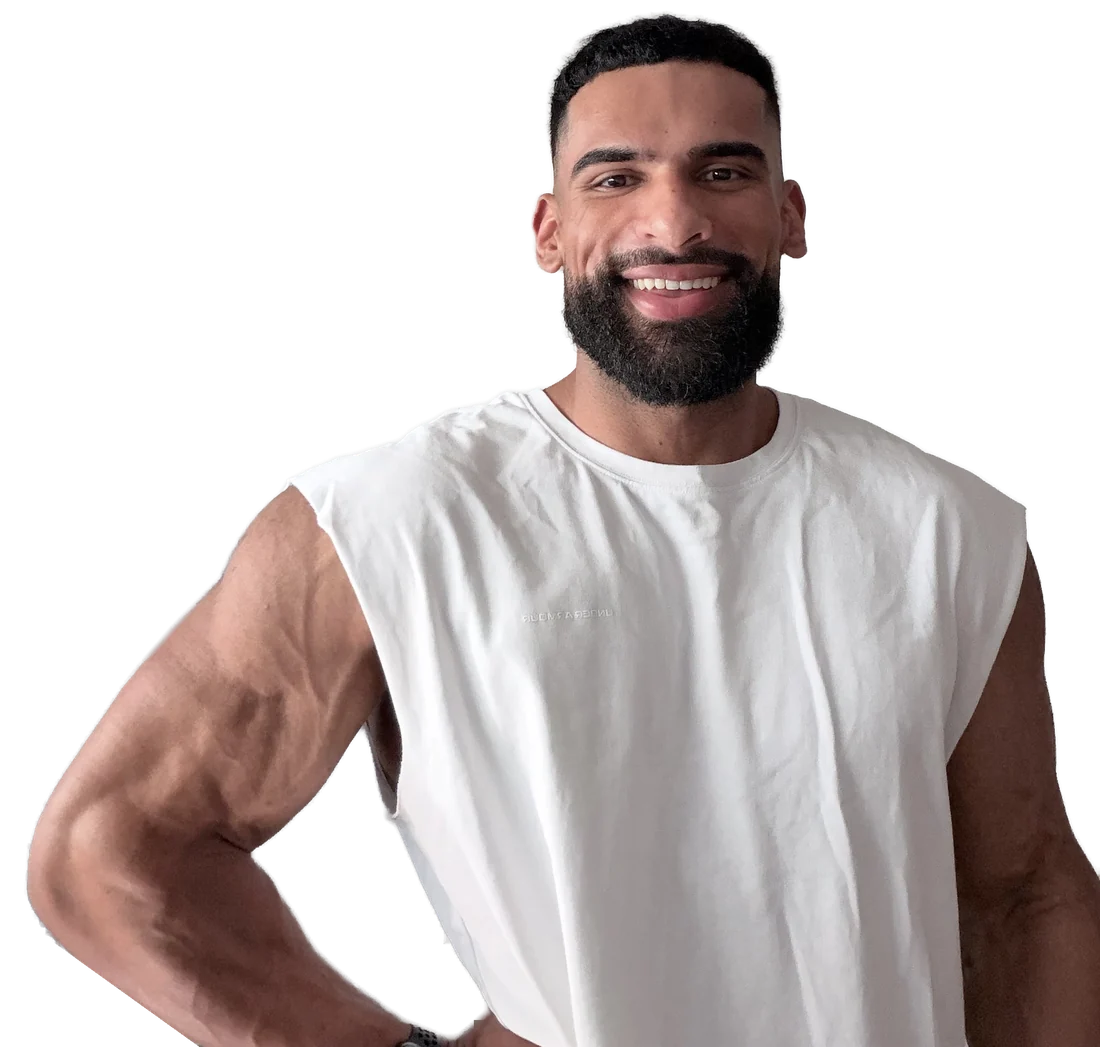
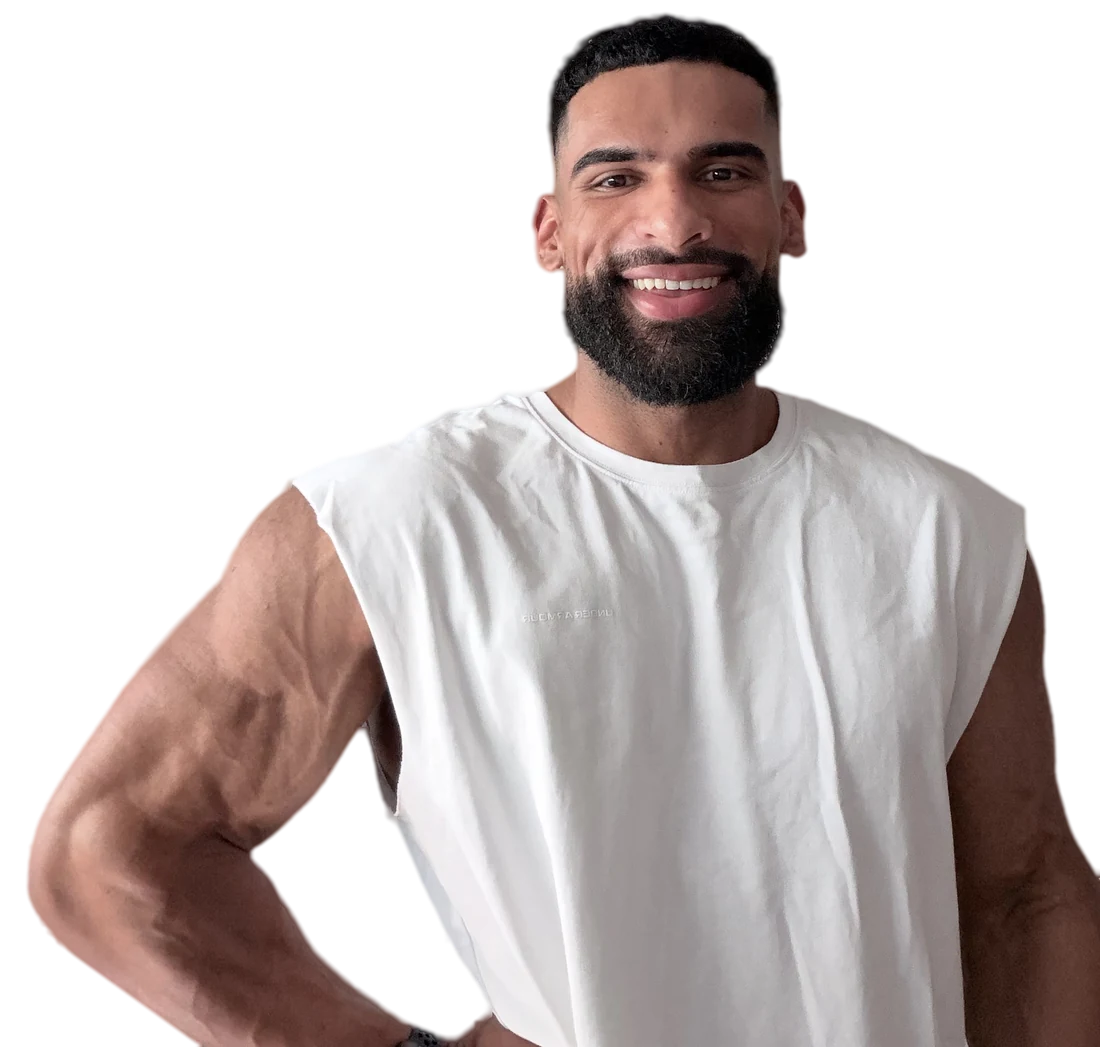
Smoother portrait cut-out and drop the Instagram line from the note
Claude-Session: https://claude.ai/code/session_01Ew48Hur7SGB7wTqZ76ezdZ

diff --git a/site/index.html b/site/index.html
@@ -132,7 +132,7 @@
   </div></section>
 
   <section class="sec letter" aria-labelledby="letter-title"><div class="w letter-in">
-    <div class="letter-side"><figure class="note-photo"><img src="/assets/abhey/rw-note-1100.webp" srcset="/assets/abhey/rw-note-720.webp 720w, /assets/abhey/rw-note-1100.webp 1100w, /assets/abhey/rw-note-1500.webp 1500w" sizes="(max-width: 1000px) 92vw, 460px" width="1100" height="1047" alt="Abhey Pal smiling, in a white sleeveless top" loading="lazy" decoding="async"><figcaption><b>Abhey Pal</b><span>Your coach, 15 years in</span></figcaption></figure><p class="eyebrow">Who’s coaching you</p><h2 id="letter-title">A note from me</h2><p class="proof">I don’t post client photos on this site. If you want to see how I train and coach before you talk to me, it’s on Instagram.</p><a class="b b-line b-sm" href="https://www.instagram.com/abhey.rewired/" target="_blank" rel="noopener noreferrer">See @abhey.rewired <svg viewBox="0 0 16 16" aria-hidden="true"><path d="M3 8h10M9 4l4 4-4 4" fill="none" stroke="currentColor" stroke-width="1.6" stroke-linecap="round" stroke-linejoin="round"/></svg></a></div>
+    <div class="letter-side"><figure class="note-photo"><img src="/assets/abhey/rw-note-1100.webp?v=2" srcset="/assets/abhey/rw-note-720.webp?v=2 720w, /assets/abhey/rw-note-1100.webp?v=2 1100w, /assets/abhey/rw-note-1500.webp?v=2 1500w" sizes="(max-width: 1000px) 92vw, 460px" width="1100" height="1047" alt="Abhey Pal smiling, in a white sleeveless top" loading="lazy" decoding="async"><figcaption><b>Abhey Pal</b><span>Your coach, 15 years in</span></figcaption></figure><p class="eyebrow">Who’s coaching you</p><h2 id="letter-title">A note from me</h2></div>
     <div class="letter-body">
       <p>This is a complete body recomposition. Lose the softness, build real shape, and become unrecognisable to the man who started.</p>
       <p>If it hasn’t worked before, it’s not because you lack discipline. Usually the plan was written for someone with an empty calendar and a different kitchen.</p>
